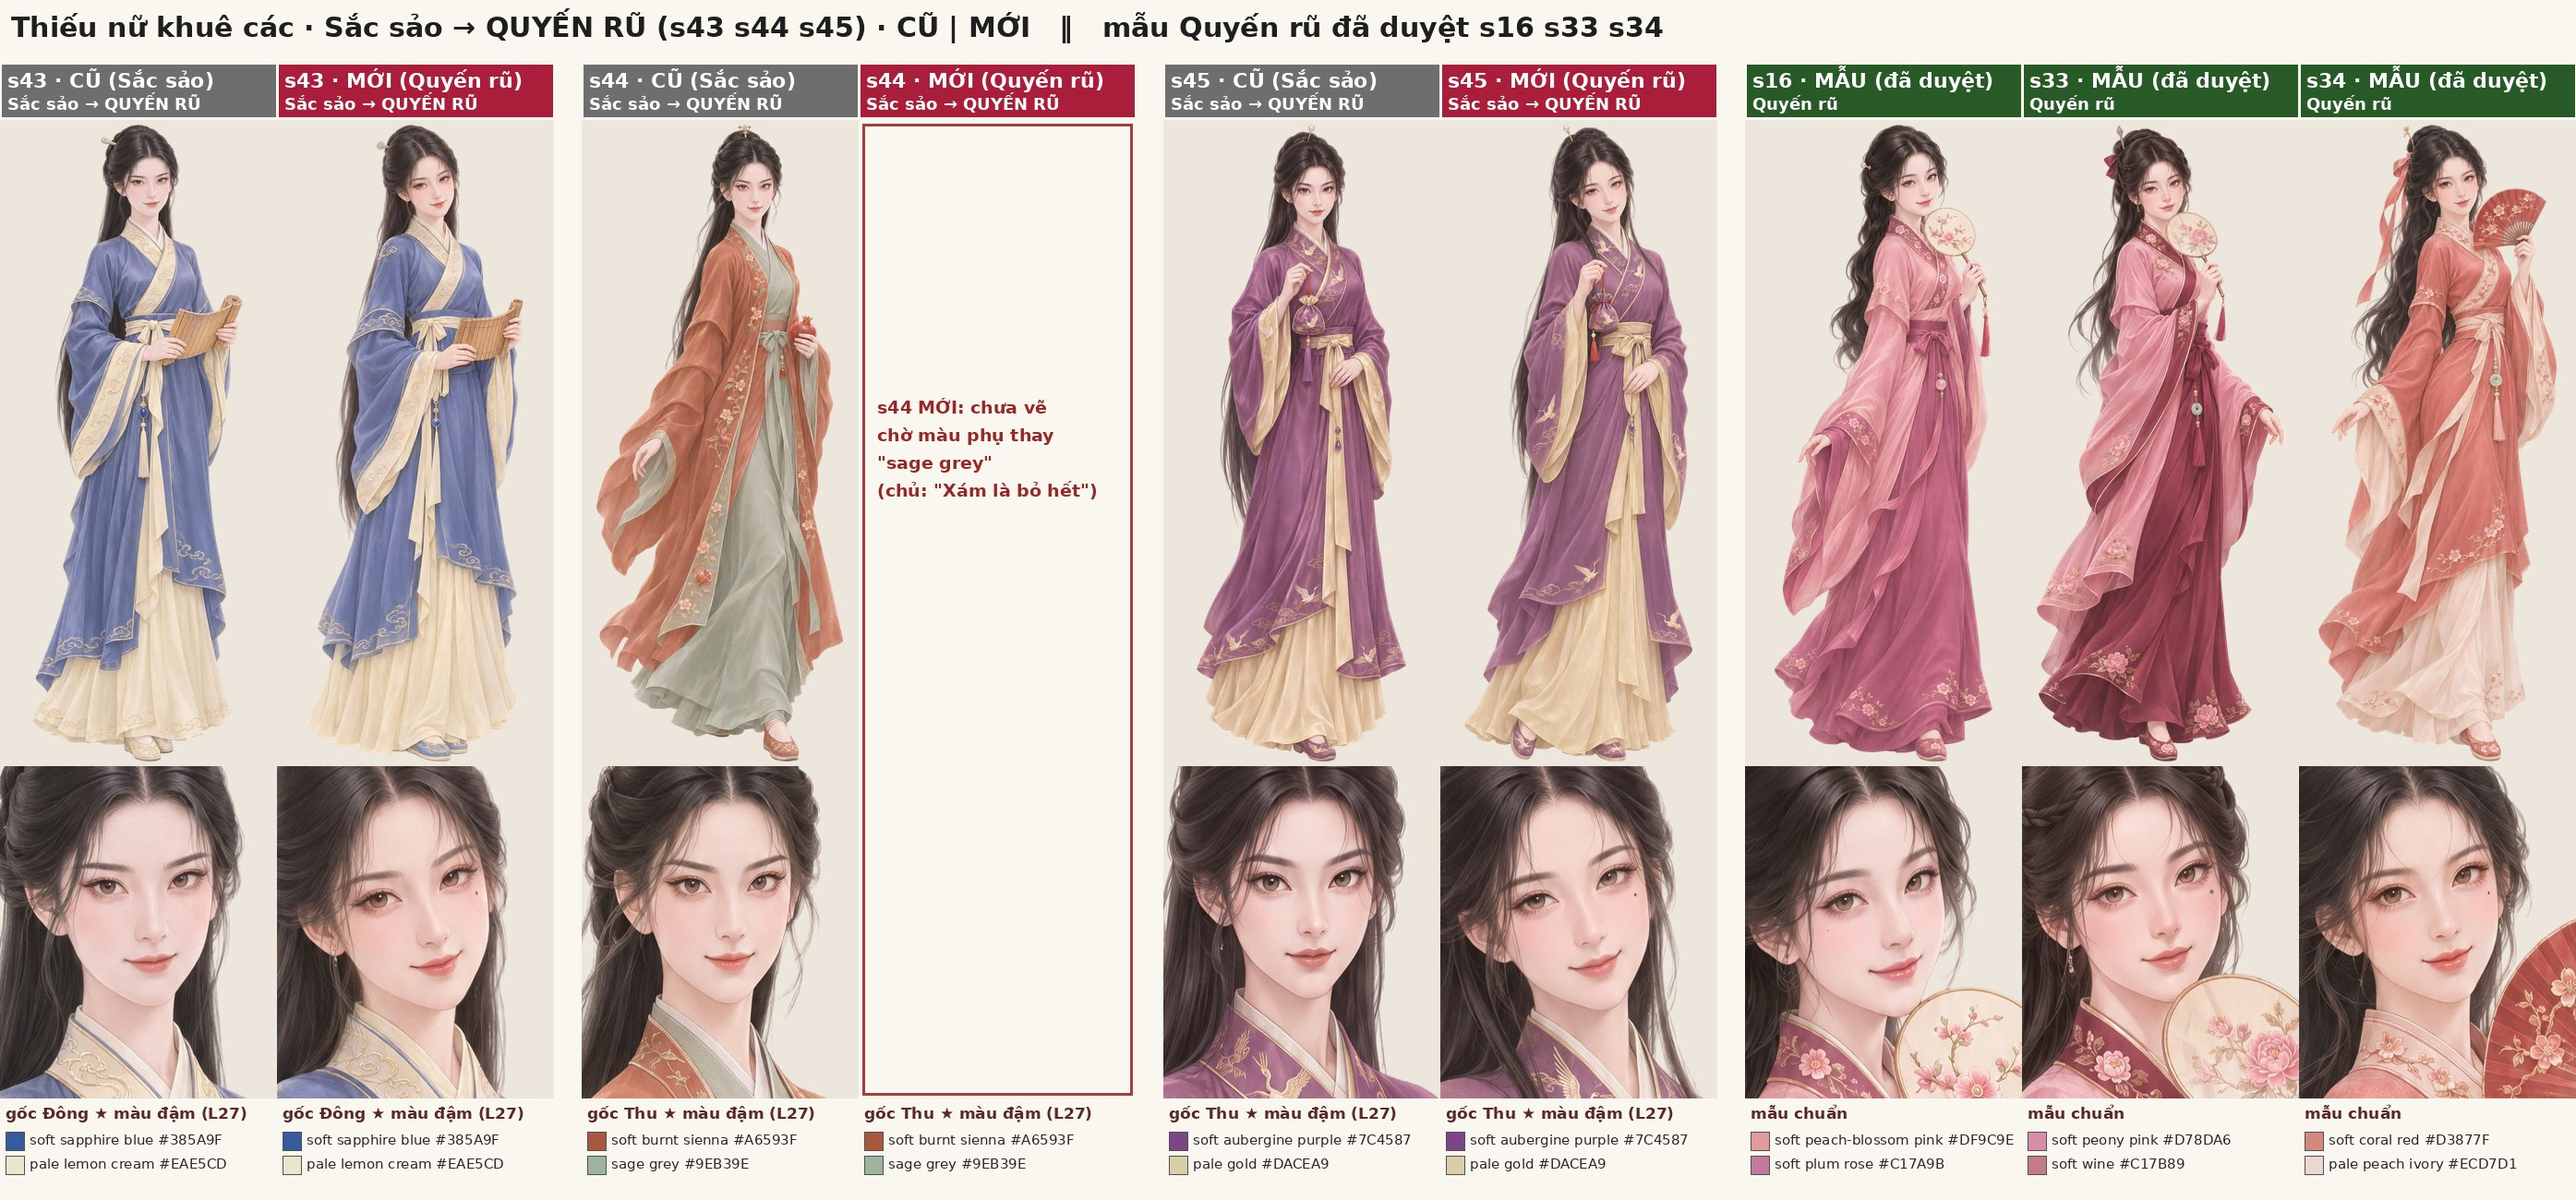
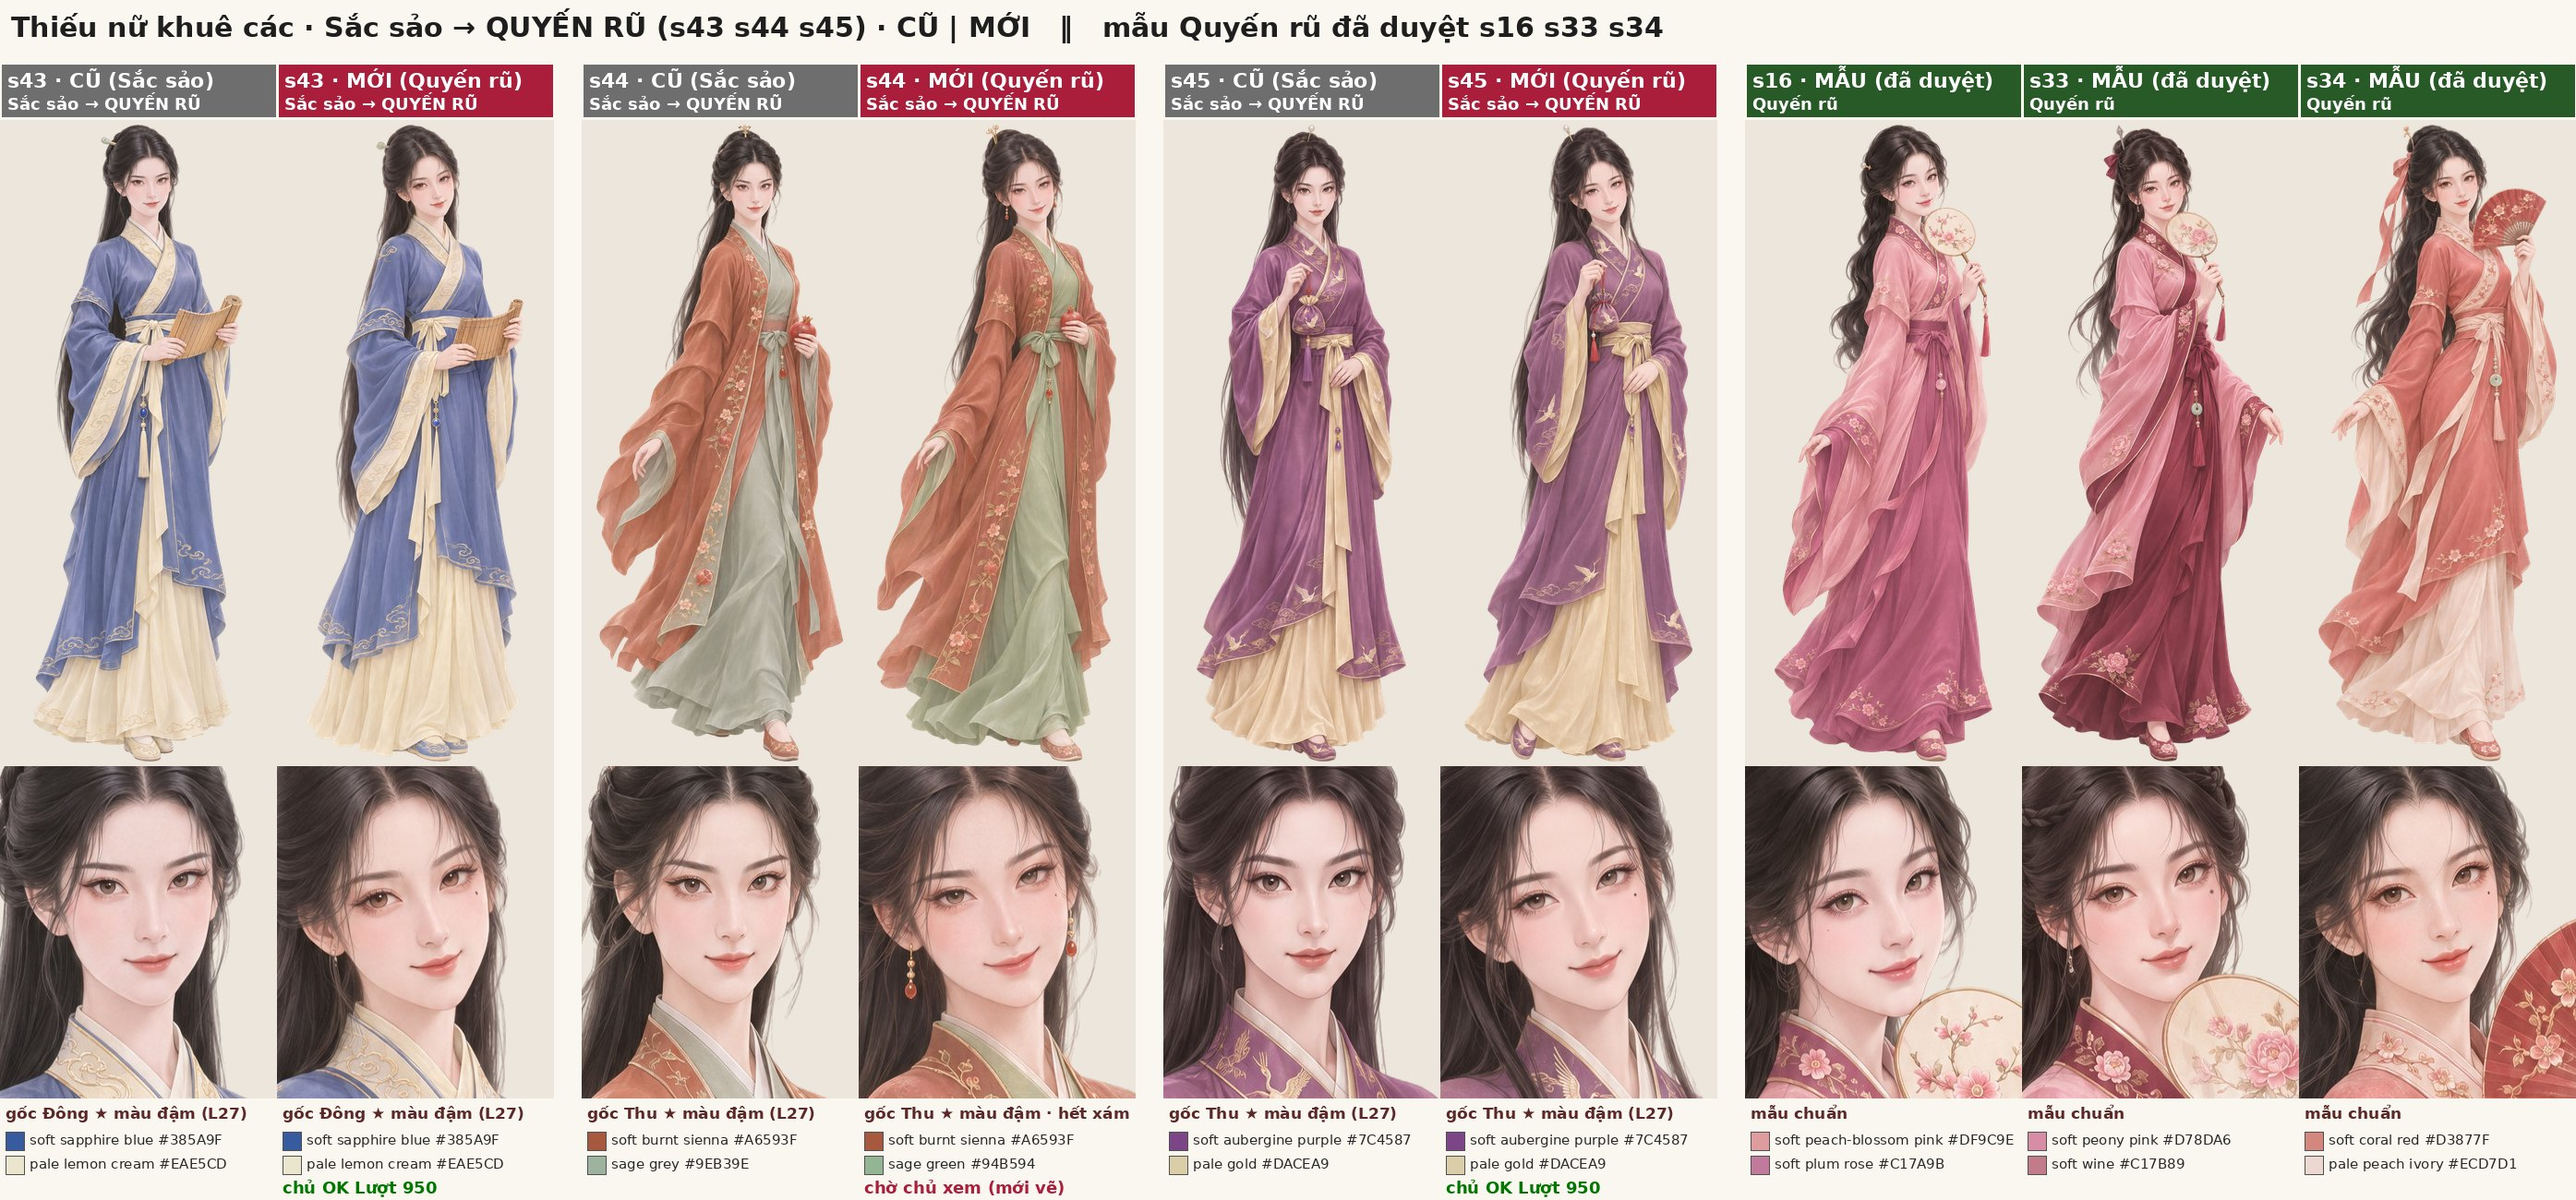
F3: s44 Quyến rũ drawn (sage green, 1 try) + sheet with all 3
Claude-Session: https://claude.ai/code/session_01PEhRbvav3JYnikHwSBBK43

diff --git a/dev/art/face-common/make_sheet_quyenru_s43_45.py b/dev/art/face-common/make_sheet_quyenru_s43_45.py
@@ -14,7 +14,9 @@ VN = {'xuan': 'Xuân', 'ha': 'Hạ', 'thu': 'Thu', 'dong': 'Đông'}
 def rd(k):
     p = ps[k]; r = p[p['root_season']].get('root_drawn') or p[p['root_season']]; return r['main'], r['main_hex'], r['sec'], r['sec_hex'], VN[p['root_season']]
 PEOPLE = ['s43', 's44', 's45']; BEN = ['s16', 's33', 's34']
-MISSING = {'s44': ['s44 MỚI: chưa vẽ', 'chờ màu phụ thay', '"sage grey"', '(chủ: "Xám là bỏ hết")']}
+MISSING = {}
+OK = {'s43': 'chủ OK Lượt 950', 's45': 'chủ OK Lượt 950', 's44': 'chờ chủ xem (mới vẽ)'}
+DEEP = json.load(open(os.path.join(D, 'palettes_season_deep.json')))   # s44 NEW: sec sage grey -> sage green (owner 'Xám là bỏ hết')
 F = lambda s, b=False: ImageFont.truetype('/usr/share/fonts/truetype/dejavu/DejaVuSans%s.ttf' % ('-Bold' if b else ''), s)
 CW, FH, ZH, HH, TH, GAP = 300, 700, 360, 60, 110, 30
 cols = [(s, 'old') for s in PEOPLE for _ in [0]] ; cols = []
@@ -43,12 +45,16 @@ for i, (s, kind) in enumerate(cols):
         tile = Image.new('RGB', (CW, FH), BG); tile.paste(fig, ((CW - fig.width) // 2, FH - 5 - fig.height), fig); sheet.paste(tile, (x, y))
         sheet.paste(face(fn).resize((CW, ZH)), (x, y + FH))
     if kind == 'ben': mn, mh, sn, sh = sr[s]['main'], sr[s]['main_hex'], sr[s]['sec'], sr[s]['sec_hex']; l2 = 'mẫu chuẩn'
-    else: mn, mh, sn, sh, season = rd(s); l2 = f'gốc {season} ★ màu đậm (L27)'
+    else:
+        mn, mh, sn, sh, season = rd(s); l2 = f'gốc {season} ★ màu đậm (L27)'
+        if kind == 'new' and s == 's44':
+            r = next(v for v in DEEP['s44'].values() if isinstance(v, dict) and v.get('root')); mn, mh, sn, sh = r['main'], r['main_hex'], r['sec'], r['sec_hex']; l2 = l2.replace(' (L27)', ' · hết xám')
     ty = y + FH + ZH + 6
     dr.text((x + 6, ty), l2, fill=(90, 40, 40), font=F(17, True))
     for j, (n, h) in enumerate(((mn, mh), (sn, sh))):
         yy = ty + 28 + j * 26; dr.rectangle((x + 6, yy + 2, x + 26, yy + 22), fill=h, outline=(80, 80, 80))
         dr.text((x + 32, yy + 2), f'{n} {h}', fill=(40, 40, 40), font=F(15))
+    if kind == 'new': dr.text((x + 6, ty + 80), OK[s], fill=(0, 120, 0) if 'OK' in OK[s] else (170, 30, 60), font=F(18, True))
     x += CW
 out = os.path.join(R, 'dev/handover/review-sheets/new-faces-v4/quyenru_s43_45_F3.jpg')
 sheet.save(out, quality=86); print(out, os.path.getsize(out) // 1024, 'KB', sheet.size)

diff --git a/dev/handover/reports/F3-quyenru-s43-45.md b/dev/handover/reports/F3-quyenru-s43-45.md
@@ -31,3 +31,10 @@ START_CTX ≈4 % of 1M (estimate; get_session read 0) · depth 7 (limit 8) · wo
   3. s45 OLD (Sắc sảo, already approved) already shows a dark dot under her eye, so the beauty mark doesn't set NEW apart from OLD.
   4. s43 blue reads lighter/softer than #385A9F (the master "medium-light" sentence), close to the OLD picture.
 - NOTE: ROOT-64 sent HOLD at 02:26:59Z (owner "Khoan, phải phân loại màu theo mùa đã"). It reached F3 only at 02:30Z, after the s43/s45 gens (~02:27–02:28Z) had run on the earlier GO. Told the foreman. Now HOLDING all (s44 too) until a new GO. If the season sort changes their colours, s43/s45 can be dropped (not in FACE_CUTS).
+
+## s44 (ROOT-64 GO, P3 sec pick)
+- Colour: P3 wrote s44.thu root sec "sage green" #94B594 in palettes_season_deep.json (commit 1ee0287; root_drawn there keeps sage grey). check_store.root_pair reads palettes_season_deep.json for s44 ONLY (DEEP_ROOT_IDS = {"s44"}); the builder takes s44's pair from the same file. Gate PASS.
+- gen kse0GTu16B → cut DoOgxICpcl, 1 try, 138 cr (F3 total 414). Sheet rebuilt with s44 OLD | NEW (status line under each NEW: s43/s45 "chủ OK Lượt 950", s44 "chờ chủ xem").
+- Looked: eyes level, lips closed, no teeth, pomegranate held, sienna + sage green clear, beauty mark under her LEFT eye (right side of picture), no forehead mark.
+- Faults (not fixed): red drop earrings (not in prompt); NEW again very close to OLD (same body/robe), the change is the face + greener skirt.
+- FACE_CUTS/FACE_MAP for s44 NOT switched (waiting for owner OK).
